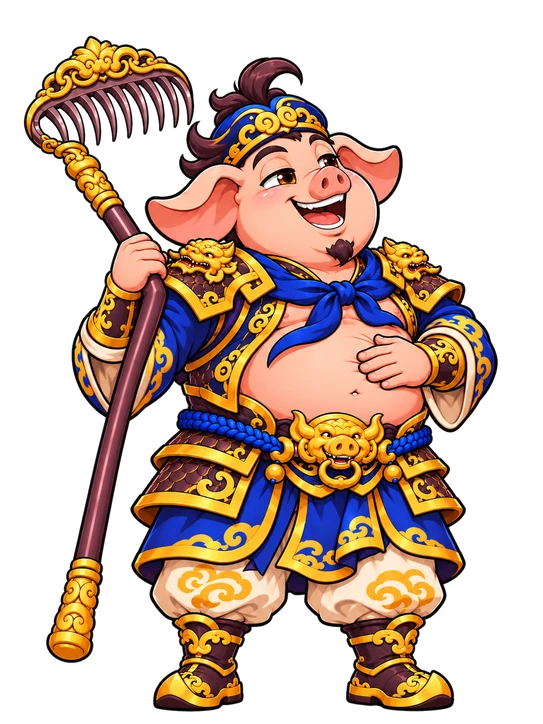
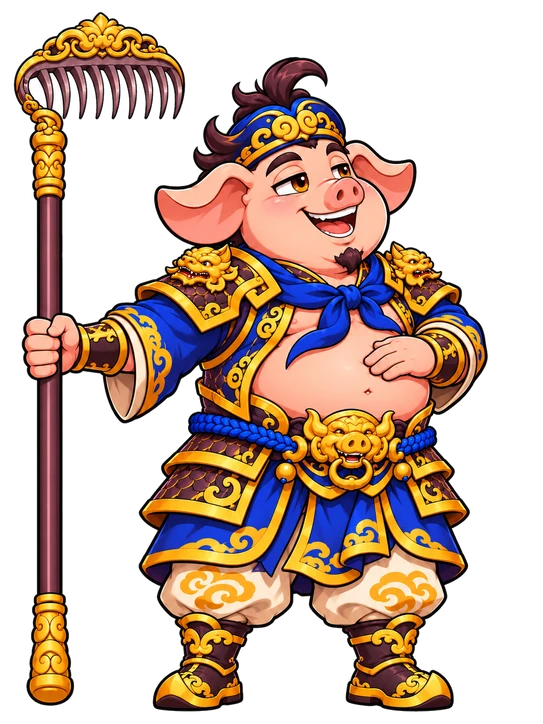
Am thanh, camera tuyet ky, vet chay, so bao kich; sua vu khi cong

diff --git a/js/main.js b/js/main.js
@@ -289,7 +289,7 @@ function startBattleNow(si) {
     st, si, time: 0, wave: -1, waveStart: 0, nextT: null, spawnQ: [], waveDef: null, waveDropped: false,
     heroes: [], enemies: [], projs: [], fx: [], parts: [], floaters: [], drops: [], zones: [], warns: [],
     mods: {}, cp: {}, gate: { hp: st.gate, max: st.gate }, gateHurt: 0,
-    fxb: [], ghosts: [], hits: { n: 0, t: 0, id: null }, sparks: [], deploy: [], cap: null, paused: false, over: false, auto: false, speed: 1, shake: 0, slowmo: 0, later: [], flash: 0,
+    fxb: [], decals: [], cam: null, ghosts: [], hits: { n: 0, t: 0, id: null }, sparks: [], deploy: [], cap: null, paused: false, over: false, auto: false, speed: 1, shake: 0, slowmo: 0, later: [], flash: 0,
     cutin: null, rerolls: 2, soul: 0, amMode: 'duong', amT: 5, gateT: 10, field: {}, slots: [], kcT: 12, lv: 1, xp: 0, pickQ: [], dodgeCd: 0, deaths: 0, kills: 0, banner: null, endT: null, win: false, joy: null,
     bg: (BGIMG[st.theme] && BGIMG[st.theme].complete && BGIMG[st.theme].naturalWidth) ? BGIMG[st.theme] : Art.backgroundH(W, H, st.theme, st.seed), ids, capTgt: null,
   };
@@ -393,6 +393,8 @@ function dealDmg(src, tgt, mult, kind) {
   let rem = a;
   if (tgt.shield > 0) { const s = Math.min(tgt.shield, rem); tgt.shield -= s; rem -= s; }
   tgt.hp -= rem; tgt.hurt = 0.1; if (rem > maxHp(tgt) * 0.04) tgt.hitT = 0.35;
+  if (kind === 'ult' && tgt.side === 'e' && !tgt.boss && !tgt.dead) { tgt.x = Math.min(W + 30, tgt.x + 34); tgt.hitT = 0.35; }   // tuyệt kỹ hất văng
+  if (crit && src.side === 'h') sfx('crit');
   if (tgt.side === 'h' && M('ad2')) adLose(tgt, rem);
   const col = tgt.side === 'h' ? '#ff6b6b' : crit ? '#ffe14d' : kind === 'ult' ? '#ffb347' : '#ffffff';
   floater(tgt.x, tgt.y - 50 * sizeOf(tgt), crit ? a + '!' : a, col, crit ? 22 : (kind === 'ult' ? 19 : 15), crit);
@@ -460,7 +462,7 @@ function kill(t, src) {
   if (t.dead) return;
   t.dead = true; t.hp = 0; t.deathT = 0;
   if (t.side === 'e') {
-    B.kills++; if (B.fxb.length < 40) fxBurst(t.x, t.y - 22, 'smoke', 120);
+    B.kills++; sfx('pop'); if (B.fxb.length < 40) fxBurst(t.x, t.y - 22, 'smoke', 120);
     if (M('soul') && Math.random() < 0.10 && B.soul < 40 + M('soulMax')) { B.soul++; floater(t.x, t.y - 60, 'Hồn Phách ' + B.soul, '#9ad0ff', 12); }
     B.xp += t.boss ? 30 : t.elite ? 5 : 1;
     while (B.xp >= xpNeed()) { B.xp -= xpNeed(); B.lv++; floater(W / 2, 120, 'Lên cấp ' + B.lv + '!', '#ffe14d', 24); queuePick(openCongPhap); }
@@ -779,13 +781,16 @@ function cast(u, w) {
       const t2 = tgt && !tgt.dead ? tgt : findTarget(u) || nearestEnemy(u, 400);
       for (const f of sk.fx) runFx(u, (f.at === 'cluster' || f.at === 'front' || f.at === 'target') ? { ...f, P } : f, t2, 'ult');
       B.shake = Math.max(B.shake, 0.6); B.flash = 0.22;
+      B.cam = { x: P.x, y: P.y - 40, t: 0, dur: 0.7 }; sfx('boom');
+      fxBurst(P.x, P.y - 40, 'burst_gold', 340); fxBurst(P.x, P.y - 30, 'ring', 420, 0); fxBurst(P.x, P.y - 50, 'flare', 300);
+      B.decals.push({ x: P.x, y: P.y + 4, r: 120, t: 0, dur: 4.5 });
     } });
   } else for (const f of sk.fx) runFx(u, f, tgt, w === 'ult' ? 'ult' : 'skill');
   if (w === 'small' && RM(u, 'skillZone')) {
     const P = bestCluster(70) || (tgt ? { x: tgt.x, y: tgt.y } : null);
     if (P) { B.zones = B.zones.filter(z => !(z.src === u && z.tag === 'pz')); B.zones.push({ x: P.x, y: P.y, r: 70, mult: 0.4, t: 3, dur: 3, src: u, tick: 0, color: '#ff8a3a', tag: 'pz' }); }
   }
-  if (w === 'ult') { B.cutin = { id: u.id, name: sk.name, hero: u.name, t: 0 }; B.slowmo = 0.35; }
+  if (w === 'ult') { B.cutin = { id: u.id, name: sk.name, hero: u.name, t: 0 }; B.slowmo = 0.35; sfx('ult'); }
   else floater(u.x, u.y - 82, sk.name, '#fff3b0', 15);
   if (u.mp < 10) { u.dk = 2.5; floater(u.x, u.y - 64, 'Điều khí', '#7fd3ff', 14); }
   return true;
@@ -898,7 +903,7 @@ function fireProj(u, tgt, o) {
     pat: o.pat || '', pl: o.pl == null ? null : o.pl, bounces: o.bounces || 0, dmax: o.dmax || 0, trav: 0, ret: false, age: 0,
     splitN: o.splitN || 0, spin: !!o.spin, boom: o.boom || 0, stun: o.stun || 0, child: !!o.child, spinT: 0, tickT: 0,
   });
-  if (u.side === 'h' && B.fxb.length < 40) fxBurst(u.x + u.f * 22, u.y - 30 * sizeOf(u), 'flare', 70);   // chớp nòng
+  if (u.side === 'h' && B.fxb.length < 40) { fxBurst(u.x + u.f * 22, u.y - 30 * sizeOf(u), 'flare', 70); sfx('shoot'); }   // chớp nòng
   return B.projs[B.projs.length - 1];
 }
 // đòn đánh thường theo kiểu riêng của tướng (ATK_STYLE trong data.js)
@@ -982,6 +987,7 @@ function updateProjs(dt) {
         for (const e of enemiesIn(p, p.boom)) if (e !== t) dealDmg(p.src, e, p.mult * 0.6, p.kind);
         for (const e of enemiesIn(p, p.boom)) if (p.stun) e.stun = Math.max(e.stun || 0, p.stun);
         B.fx.push({ k: 'ring', x: p.x, y: p.y + 20, r: p.boom, color: projColor(p.type), t: 0, dur: 0.35 });
+        if (B.decals.length < 12) B.decals.push({ x: p.x, y: p.y + 20, r: p.boom * 0.6, t: 0, dur: 2.5 });
         particles(p.x, p.y, '#ffd9a0', 10, 170, 4);
         p.done = true; break;
       }
@@ -1014,6 +1020,7 @@ function updateProjs(dt) {
 function hitFeel(p, t) {
   const col = projColor(p.type), a = Math.atan2(p.vy, p.vx);
   B.sparks.push({ x: t.x, y: t.y - 24 * sizeOf(t), a, col, t: 0, dur: 0.22, big: p.kind !== 'atk' });
+  sfx(p.kind !== 'atk' ? 'hitBig' : 'hit');
   if (B.fxb.length < 40) fxBurst(t.x, t.y - 24 * sizeOf(t), (PFX[p.type] || {}).burst || 'burst_gold', p.kind !== 'atk' ? 150 : 95, Math.random() * 6);
   if (p.src && p.src.side === 'h') {
     const h = B.hits; if (h.id !== p.src.id || h.t <= 0) h.n = 0;
@@ -1286,6 +1293,8 @@ function updateFx(dt) {
   B.later = B.later.filter(l => !l.done);
   if (B.flash > 0) B.flash -= dt;
   for (const b of B.fxb) b.t += dt; B.fxb = B.fxb.filter(b => b.t < b.dur);
+  for (const d of B.decals) d.t += dt; B.decals = B.decals.filter(d => d.t < d.dur);
+  if (B.cam && (B.cam.t += dt) > B.cam.dur) B.cam = null;
   for (const g of B.ghosts) g.t += dt; B.ghosts = B.ghosts.filter(g => g.t < 0.22);
   for (const s of B.sparks) s.t += dt; B.sparks = B.sparks.filter(s => s.t < s.dur);
   if (B.hits.t > 0) B.hits.t -= dt;
@@ -1456,7 +1465,7 @@ function poseFor(u) {
   if (B && B.over) return null;   // thắng/thua: dùng rig (win/die)
   if (u.hitT > 0 && P.hit) return ['hit', 1 - u.hitT / 0.35];
   if (P.idle1 && P.idle2) {   // đứng nghỉ: hai dáng xen kẽ, chuyển mờ 0,3 giây, mỗi tướng lệch pha riêng
-    const T = 3.6, ph = ((u.t + (u.id.length * 0.37)) % T), a = ph < 1.6 ? 0 : ph < 1.9 ? (ph - 1.6) / 0.3 : ph < 3.3 ? 1 : 1 - (ph - 3.3) / 0.3;
+    const T = 3.6, ph = ((u.t + (u.id.length * 0.37)) % T), a = ph < 1.8 ? 0 : 1;   // đổi dáng dứt khoát (chuyển mờ làm 2 vũ khí chồng lên nhau trông như bị gãy/cong)
     return ['idle', ph, a];
   }
   return null;
@@ -1482,7 +1491,7 @@ function drawRigUnit(u, h, alpha) {
   if (pz) {
     ctx.save(); ctx.scale(u.f * (FACE[u.id] || 1), 1); let ok;
     if (pz[0] === 'idle') {   // xen kẽ idle1 ↔ idle2 bằng chuyển mờ
-      ok = drawPose(u, 'idle1', pz[1], h, alpha * (1 - pz[2] * 0.999)); drawPose(u, 'idle2', pz[1], h, alpha * pz[2]);
+      ok = drawPose(u, pz[2] ? 'idle2' : 'idle1', pz[1], h, alpha);
     } else ok = drawPose(u, pz[0], pz[1], h, alpha);
     ctx.restore(); if (ok) return;
   }
@@ -1599,6 +1608,29 @@ function drawGhosts() {
   }
 }
 // tia sáng điểm trúng (xoè nan) + đồng hồ số đòn
+// ------------------------------------------------------------------ ÂM THANH (tổng hợp bằng WebAudio, không dùng tệp ngoài)
+let AC = null; const _sfxT = {};
+function audioOn() { if (!AC) { try { AC = new (window.AudioContext || window.webkitAudioContext)(); } catch (e) { AC = null; } } if (AC && AC.state === 'suspended') AC.resume(); }
+document.addEventListener('pointerdown', audioOn);
+function sfx(kind) {
+  if (!AC || (S && S.mute)) return;
+  const now = AC.currentTime, gap = { shoot: 0.06, hit: 0.05, hitBig: 0.08, pop: 0.05, crit: 0.06 }[kind] || 0;
+  if (gap && _sfxT[kind] && now - _sfxT[kind] < gap) return; _sfxT[kind] = now;
+  const out = AC.createGain(); out.connect(AC.destination);
+  const tone = (type, f0, f1, dur, vol, delay) => { const o = AC.createOscillator(), g = AC.createGain(); o.type = type; const t = now + (delay || 0);
+    o.frequency.setValueAtTime(f0, t); o.frequency.exponentialRampToValueAtTime(Math.max(20, f1), t + dur); g.gain.setValueAtTime(vol, t); g.gain.exponentialRampToValueAtTime(0.001, t + dur);
+    o.connect(g); g.connect(out); o.start(t); o.stop(t + dur + 0.02); };
+  const noise = (dur, vol, hp, delay) => { const n = AC.createBufferSource(), buf = AC.createBuffer(1, Math.floor(AC.sampleRate * dur), AC.sampleRate), d = buf.getChannelData(0);
+    for (let i = 0; i < d.length; i++) d[i] = (Math.random() * 2 - 1) * (1 - i / d.length); n.buffer = buf; const f = AC.createBiquadFilter(); f.type = 'highpass'; f.frequency.value = hp || 800;
+    const g = AC.createGain(); g.gain.value = vol; n.connect(f); f.connect(g); g.connect(out); n.start(now + (delay || 0)); };
+  if (kind === 'shoot') { tone('triangle', 900, 380, 0.08, 0.05); noise(0.05, 0.03, 2500); }
+  else if (kind === 'hit') { noise(0.06, 0.09, 1200); tone('square', 220, 90, 0.06, 0.03); }
+  else if (kind === 'hitBig') { noise(0.14, 0.16, 500); tone('sine', 160, 50, 0.16, 0.12); }
+  else if (kind === 'crit') { tone('sawtooth', 1400, 600, 0.09, 0.05); noise(0.08, 0.1, 1800); tone('sine', 300, 80, 0.12, 0.08); }
+  else if (kind === 'pop') { tone('sine', 520, 140, 0.1, 0.06); }
+  else if (kind === 'ult') { tone('sawtooth', 200, 900, 0.35, 0.06); noise(0.4, 0.06, 3000); tone('sine', 1200, 1800, 0.3, 0.04, 0.1); }
+  else if (kind === 'boom') { noise(0.6, 0.3, 120); tone('sine', 110, 30, 0.7, 0.32); tone('triangle', 70, 25, 0.9, 0.2, 0.05); }
+}
 // ------------------------------------------------------------------ CHẤT LIỆU HIỆU ỨNG (art/fx, nền đen, vẽ bằng hoà sáng 'lighter')
 const FXT = {};
 for (const n of ['burst_gold', 'burst_blue', 'slash', 'orb', 'lightning', 'smoke', 'ring', 'flare', 'fire', 'petal']) { const i = new Image(); i.src = 'art/fx/' + n + '.webp'; FXT[n] = i; }
@@ -1941,7 +1973,16 @@ function render() {
   if (!B) { renderHome(); return; }
   ctx.save();
   if (B.shake > 0) ctx.translate(rand(-1, 1) * B.shake * 10, rand(-1, 1) * B.shake * 10);
+  if (B.cam) { const k = Math.sin(Math.PI * B.cam.t / B.cam.dur), z = 1 + 0.09 * k; ctx.translate(B.cam.x, B.cam.y); ctx.scale(z, z); ctx.translate(-B.cam.x, -B.cam.y); }   // camera dí sát điểm nổ tuyệt kỹ
   ctx.drawImage(B.bg, 0, 0, W, H);
+  for (const d of B.decals) {   // vết cháy/nứt đọng trên đất
+    const a = Math.min(1, (d.dur - d.t) / 1.2) * 0.5, g = ctx.createRadialGradient(d.x, d.y, 4, d.x, d.y, d.r);
+    g.addColorStop(0, 'rgba(40,18,6,0.9)'); g.addColorStop(0.6, 'rgba(70,32,10,0.45)'); g.addColorStop(1, 'rgba(70,32,10,0)');
+    ctx.save(); ctx.globalAlpha = a; ctx.fillStyle = g; ctx.beginPath(); ctx.ellipse(d.x, d.y, d.r, d.r * 0.42, 0, 0, TAU); ctx.fill();
+    ctx.globalCompositeOperation = 'lighter'; ctx.globalAlpha = a * 0.5 * Math.max(0, 1 - d.t / 1.5); ctx.strokeStyle = '#ff9a2e'; ctx.lineWidth = 2;
+    for (let i = 0; i < 7; i++) { const an = i * 0.9 + d.x * 0.01; ctx.beginPath(); ctx.moveTo(d.x, d.y); ctx.lineTo(d.x + Math.cos(an) * d.r * 0.8, d.y + Math.sin(an) * d.r * 0.33); ctx.stroke(); }
+    ctx.restore();
+  }
   drawGateDamage();
   for (const z of B.zones) {
     ctx.save(); ctx.globalAlpha = Math.min(1, z.t) * 0.45;
@@ -1990,8 +2031,13 @@ function render() {
     const sc = f.crit ? 1 + Math.max(0, 0.3 - p) * 2 : 1;
     ctx.save(); ctx.globalAlpha = p > 0.7 ? (1 - p) / 0.3 : 1; ctx.translate(f.x, y); ctx.scale(sc, sc);
     ctx.font = `800 ${f.size}px "Baloo 2",sans-serif`;
-    ctx.lineWidth = 4; ctx.strokeStyle = 'rgba(50,20,10,0.9)'; ctx.strokeText(f.txt, 0, 0);
-    ctx.fillStyle = f.color; ctx.fillText(f.txt, 0, 0); ctx.restore();
+    if (f.crit) {   // bạo kích: chữ to, viền đỏ đậm, tô vàng chuyển cam, có loé sáng sau
+      ctx.font = `900 ${f.size + 4}px "Baloo 2",sans-serif`;
+      ctx.save(); ctx.globalCompositeOperation = 'lighter'; ctx.globalAlpha *= 0.6; ctx.fillStyle = '#ffb02e'; ctx.beginPath(); ctx.ellipse(8, -8, 34, 14, 0, 0, TAU); ctx.fill(); ctx.restore();
+      const g = ctx.createLinearGradient(0, -f.size, 0, 2); g.addColorStop(0, '#fffbe0'); g.addColorStop(0.5, '#ffd34d'); g.addColorStop(1, '#ff7a1e');
+      ctx.lineWidth = 6; ctx.strokeStyle = '#6a1206'; ctx.strokeText(f.txt, 0, 0); ctx.fillStyle = g; ctx.fillText(f.txt, 0, 0);
+    } else { ctx.lineWidth = 4; ctx.strokeStyle = 'rgba(50,20,10,0.9)'; ctx.strokeText(f.txt, 0, 0); ctx.fillStyle = f.color; ctx.fillText(f.txt, 0, 0); }
+    ctx.restore();
   }
   ctx.restore();
   // boss bar
@@ -2070,8 +2116,8 @@ let homeBg = null, homeT = 0;
 function drawHomeHero(id, i, h, t) {
   const P = POSES[id], D = window.SKEL_DEFS && SKEL_DEFS[id], fake = { id, hurt: 0 };
   if (P && P.idle1 && P.idle2 && D) {
-    const T = 3.6, ph = (t + i * 0.83) % T, a = ph < 1.6 ? 0 : ph < 1.9 ? (ph - 1.6) / 0.3 : ph < 3.3 ? 1 : 1 - (ph - 3.3) / 0.3;
-    drawPose(fake, 'idle1', ph, h, 1 - a * 0.999); drawPose(fake, 'idle2', ph, h, a); return true;
+    const T = 3.6, ph = (t + i * 0.83) % T, a = ph < 1.8 ? 0 : 1;   // đổi dáng dứt khoát (chuyển mờ làm 2 vũ khí chồng lên nhau trông như bị gãy/cong)
+    drawPose(fake, a ? 'idle2' : 'idle1', ph, h, 1); return true;
   }
   return false;
 }
@@ -2388,6 +2434,7 @@ function showHUD() {
       <div class="gate-bar"><span>Cổng Tây Kỳ</span><div class="bar"><i id="hGate"></i></div></div>
       <button class="tool" id="bAuto">Tự động</button>
       <button class="tool" id="bSpeed">x1</button>
+      <button class="tool" id="bMute">${S.mute ? "Tắt tiếng" : "Âm thanh"}</button>
     </div>
     <div class="cp-owned" id="cpOwned"></div>
     <div class="hint-tap" id="hintTap">Chạm vào quái để đội trưởng nhắm đánh · Chạm thẻ tướng để tung tuyệt kỹ</div>
@@ -2396,6 +2443,7 @@ function showHUD() {
   const pad = $('#pad');
   pad.addEventListener('pointerdown', e => { tapTarget(logical(e)); const h = $('#hintTap'); if (h) h.remove(); });
   $('#bPause').onclick = openPause;
+  $('#bMute').onclick = () => { S.mute = !S.mute; save(); $('#bMute').textContent = S.mute ? 'Tắt tiếng' : 'Âm thanh'; audioOn(); };
   $('#bAuto').onclick = () => { B.auto = !B.auto; $('#bAuto').classList.toggle('on', B.auto); };
   $('#bSpeed').onclick = () => { B.speed = B.speed === 1 ? 2 : 1; $('#bSpeed').textContent = 'x' + B.speed; $('#bSpeed').classList.toggle('on', B.speed > 1); };
   buildTeamBar();
